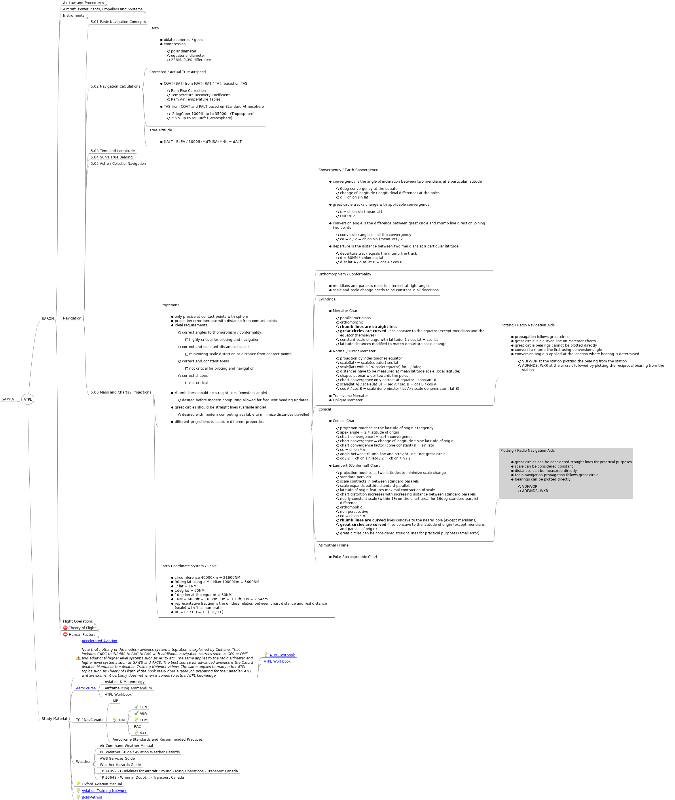
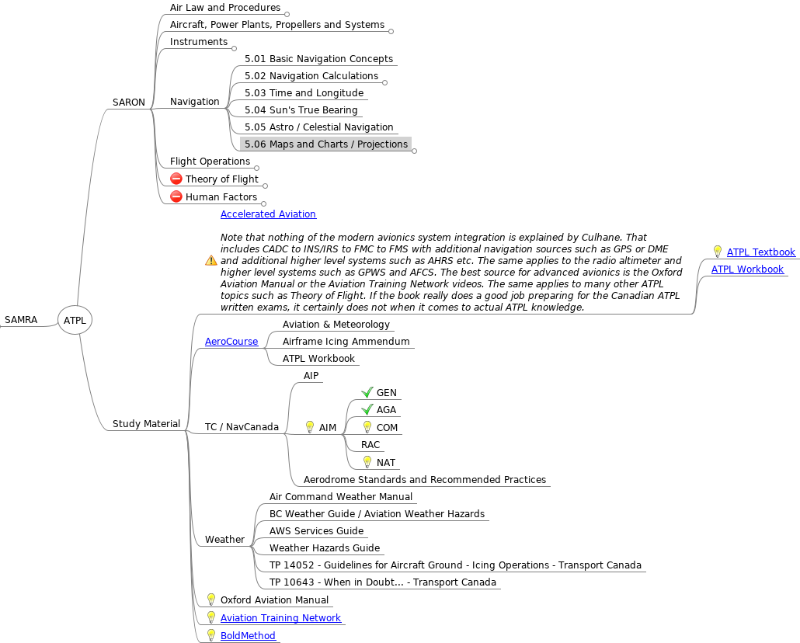
extended ATPL mind map

diff --git a/ATPL/Exam/ATPL.mm b/ATPL/Exam/ATPL.mm
@@ -5918,7 +5918,7 @@
 </node>
 <node CREATED="1568173570034" ID="ID_1285060949" MODIFIED="1568173574370" TEXT="Navigation">
 <node CREATED="1572722855252" ID="ID_1252294476" MODIFIED="1572722864170" TEXT="5.01 Basic Navigation Concepts"/>
-<node CREATED="1572723482390" ID="ID_787148057" MODIFIED="1572736767379" TEXT="5.02 Navigation Calculations">
+<node CREATED="1572723482390" FOLDED="true" ID="ID_787148057" MODIFIED="1573082390233" TEXT="5.02 Navigation Calculations">
 <node CREATED="1572727356484" ID="ID_590399689" MODIFIED="1572727496625">
 <richcontent TYPE="NODE"><html>
   <head>
@@ -6044,8 +6044,8 @@
   </body>
 </html></richcontent>
 </node>
-<node CREATED="1572736905999" ID="ID_158440117" MODIFIED="1572736938068" TEXT="5.06 Maps and Charts / Projections">
-<node CREATED="1572736941182" ID="ID_1468522731" MODIFIED="1572904412982">
+<node CREATED="1572736905999" FOLDED="true" ID="ID_158440117" MODIFIED="1573082378869" TEXT="5.06 Maps and Charts / Projections">
+<node CREATED="1572736941182" FOLDED="true" ID="ID_1468522731" MODIFIED="1573082371283">
 <richcontent TYPE="NODE"><html>
   <head>
     
@@ -6224,7 +6224,7 @@
   </body>
 </html></richcontent>
 </node>
-<node CREATED="1572736951961" ID="ID_1383404834" MODIFIED="1573069971782">
+<node CREATED="1572736951961" FOLDED="true" ID="ID_1383404834" MODIFIED="1573082363399">
 <richcontent TYPE="NODE"><html>
   <head>
     
@@ -6293,15 +6293,60 @@
       </li>
       <li>
         Transverse Mercator
+
+        <ul>
+          <li>
+            projection cylinder touches a selected meridian
+          </li>
+          <li>
+            datum meridian, meridian of tangency
+          </li>
+          <li>
+            scale correct only on the datum meridian
+          </li>
+          <li>
+            scale expands in the east / west directions (1% within +/-8deg)
+          </li>
+          <li>
+            orthomophic and non-perspective
+          </li>
+          <li>
+            <b>rhumb lines are complex curved</b>&#160;lines (except datum meridian, perpendicular meridian, and equator)
+          </li>
+          <li>
+            <b>great circles are complex curved</b>&#160;lines (except datum meridian, perpendicular meridian, perpendicular great circle, and equator)
+          </li>
+        </ul>
       </li>
       <li>
         Oblique Mercator
+
+        <ul>
+          <li>
+            projection cylinder touches a selected great circle (false equator) - great circle of tangency
+          </li>
+          <li>
+            scale correct only on the great circle of tangency (1% within&#160;+/-8deg)
+          </li>
+          <li>
+            scale expands orthogonally from the great circle of tangency
+          </li>
+          <li>
+            orthomophic and non-perspective
+          </li>
+          <li>
+            <b>rhumb lines are complex</b>&#160;curved lines (see exceptions above)
+          </li>
+          <li>
+            <b>great circles are complex</b>&#160;curved lines (see exceptions above)
+          </li>
+        </ul>
       </li>
     </ul>
   </body>
 </html>
 </richcontent>
-<node CREATED="1572903096009" ID="ID_1677202209" MODIFIED="1573070057600">
+<node CREATED="1572903096009" ID="ID_1677202209" MODIFIED="1573075426137">
 <richcontent TYPE="NODE"><html>
   <head>
     
@@ -6334,7 +6379,7 @@
             VDF/VOR at the station plotting the bearing from the station
           </li>
           <li>
-            ADF/NDB, WXR at the aircraft followed by plotting the reciprocal bearing from the station
+            ADF/NDB, AWR at the aircraft followed by plotting the reciprocal bearing from the station
           </li>
         </ul>
       </li>
@@ -6344,7 +6389,7 @@
 </richcontent>
 </node>
 </node>
-<node CREATED="1572736959045" ID="ID_1239272804" MODIFIED="1573069704423">
+<node CREATED="1572736959045" FOLDED="true" ID="ID_1239272804" MODIFIED="1573075753824">
 <richcontent TYPE="NODE"><html>
   <head>
     
@@ -6434,9 +6479,8 @@
       </li>
     </ul>
   </body>
-</html>
-</richcontent>
-<node CREATED="1573070036675" ID="ID_1078926843" MODIFIED="1573070313396">
+</html></richcontent>
+<node CREATED="1573070036675" ID="ID_1078926843" MODIFIED="1573075746270">
 <richcontent TYPE="NODE"><html>
   <head>
     
@@ -6466,10 +6510,10 @@
 
         <ul>
           <li>
-            VDF/VOR
+            VDF/VOR at the station plotting from the station
           </li>
           <li>
-            ADF/NDB, WXR
+            ADF/NDB, AWR at the aircraft followed by plotting the reciprocal bearing from a parallel false meridian the station
           </li>
         </ul>
       </li>
@@ -6479,7 +6523,7 @@
 </richcontent>
 </node>
 </node>
-<node CREATED="1572736970504" ID="ID_1655967172" MODIFIED="1572737464154">
+<node CREATED="1572736970504" ID="ID_1655967172" MODIFIED="1573078330785">
 <richcontent TYPE="NODE"><html>
   <head>
     
@@ -6494,10 +6538,53 @@
     <ul>
       <li>
         Polar Stereographic Chart
+
+        <ul>
+          <li>
+            scale correct at the pole but expands towards the equator
+          </li>
+          <li>
+            orthomophic and perspective
+          </li>
+          <li>
+            latitude + co-latitude = 90deg
+          </li>
+          <li>
+            projection angle = co-latitude / 2
+          </li>
+          <li>
+            scale change = sec sec (co-latitude / 2)
+          </li>
+          <li>
+            scale(lat) = scale(90) * sec sec (co-latitude / 2)
+          </li>
+          <li>
+            scale within 1% from 90 to 78deg (nearly constant)
+          </li>
+          <li>
+            constant chart convergence n = 1 (flat cone with point of tangency at the pole)
+          </li>
+          <li>
+            track angle changes with chart convergence which is equal to the change of longitude
+          </li>
+          <li>
+            chart convergence only correct (same as earth convergence) at the pole
+          </li>
+          <li>
+            <b>rhumb lines are curved</b>&#160;lines concave to the nearer pole
+          </li>
+          <li>
+            <b>great circles are curved</b>&#160;lines concave to the nearer pole
+          </li>
+          <li>
+            great circles can be considered straight lines near the pole for practical purposes for latitudes of more than 70deg
+          </li>
+        </ul>
       </li>
     </ul>
   </body>
-</html></richcontent>
+</html>
+</richcontent>
 </node>
 </node>
 <node CREATED="1572894868506" ID="ID_104786186" MODIFIED="1573067775379">
@@ -6539,8 +6626,7 @@
       </li>
     </ul>
   </body>
-</html>
-</richcontent>
+</html></richcontent>
 </node>
 </node>
 </node>
